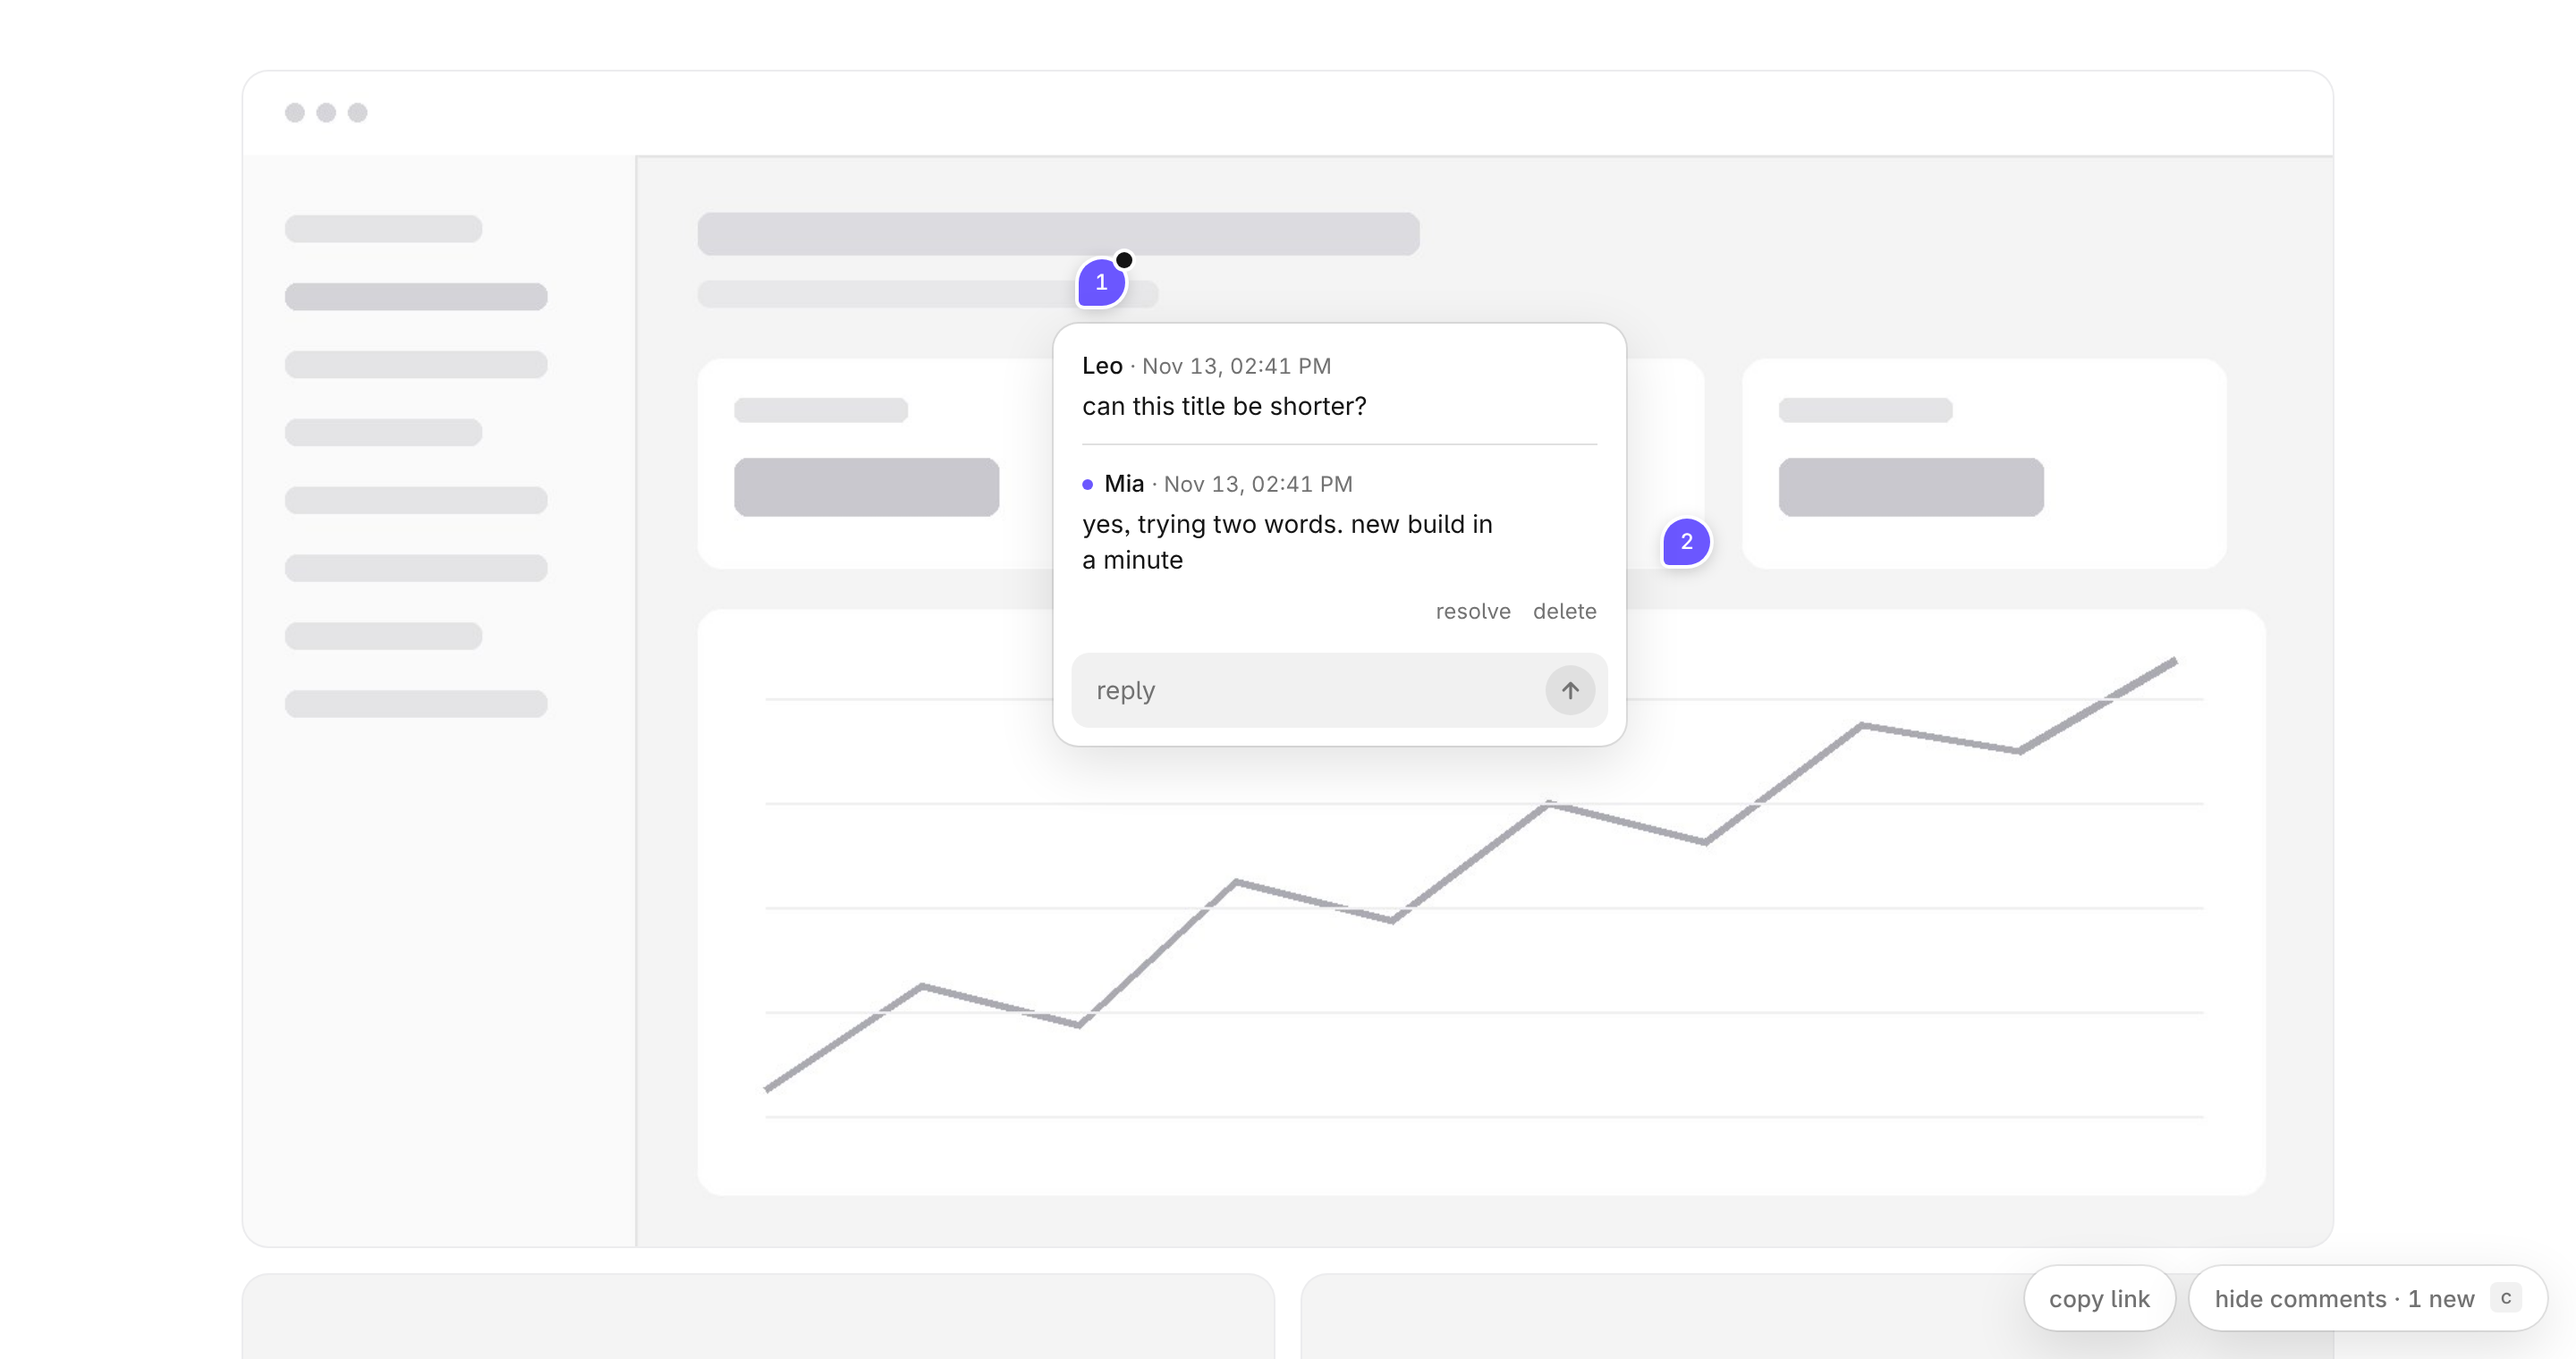
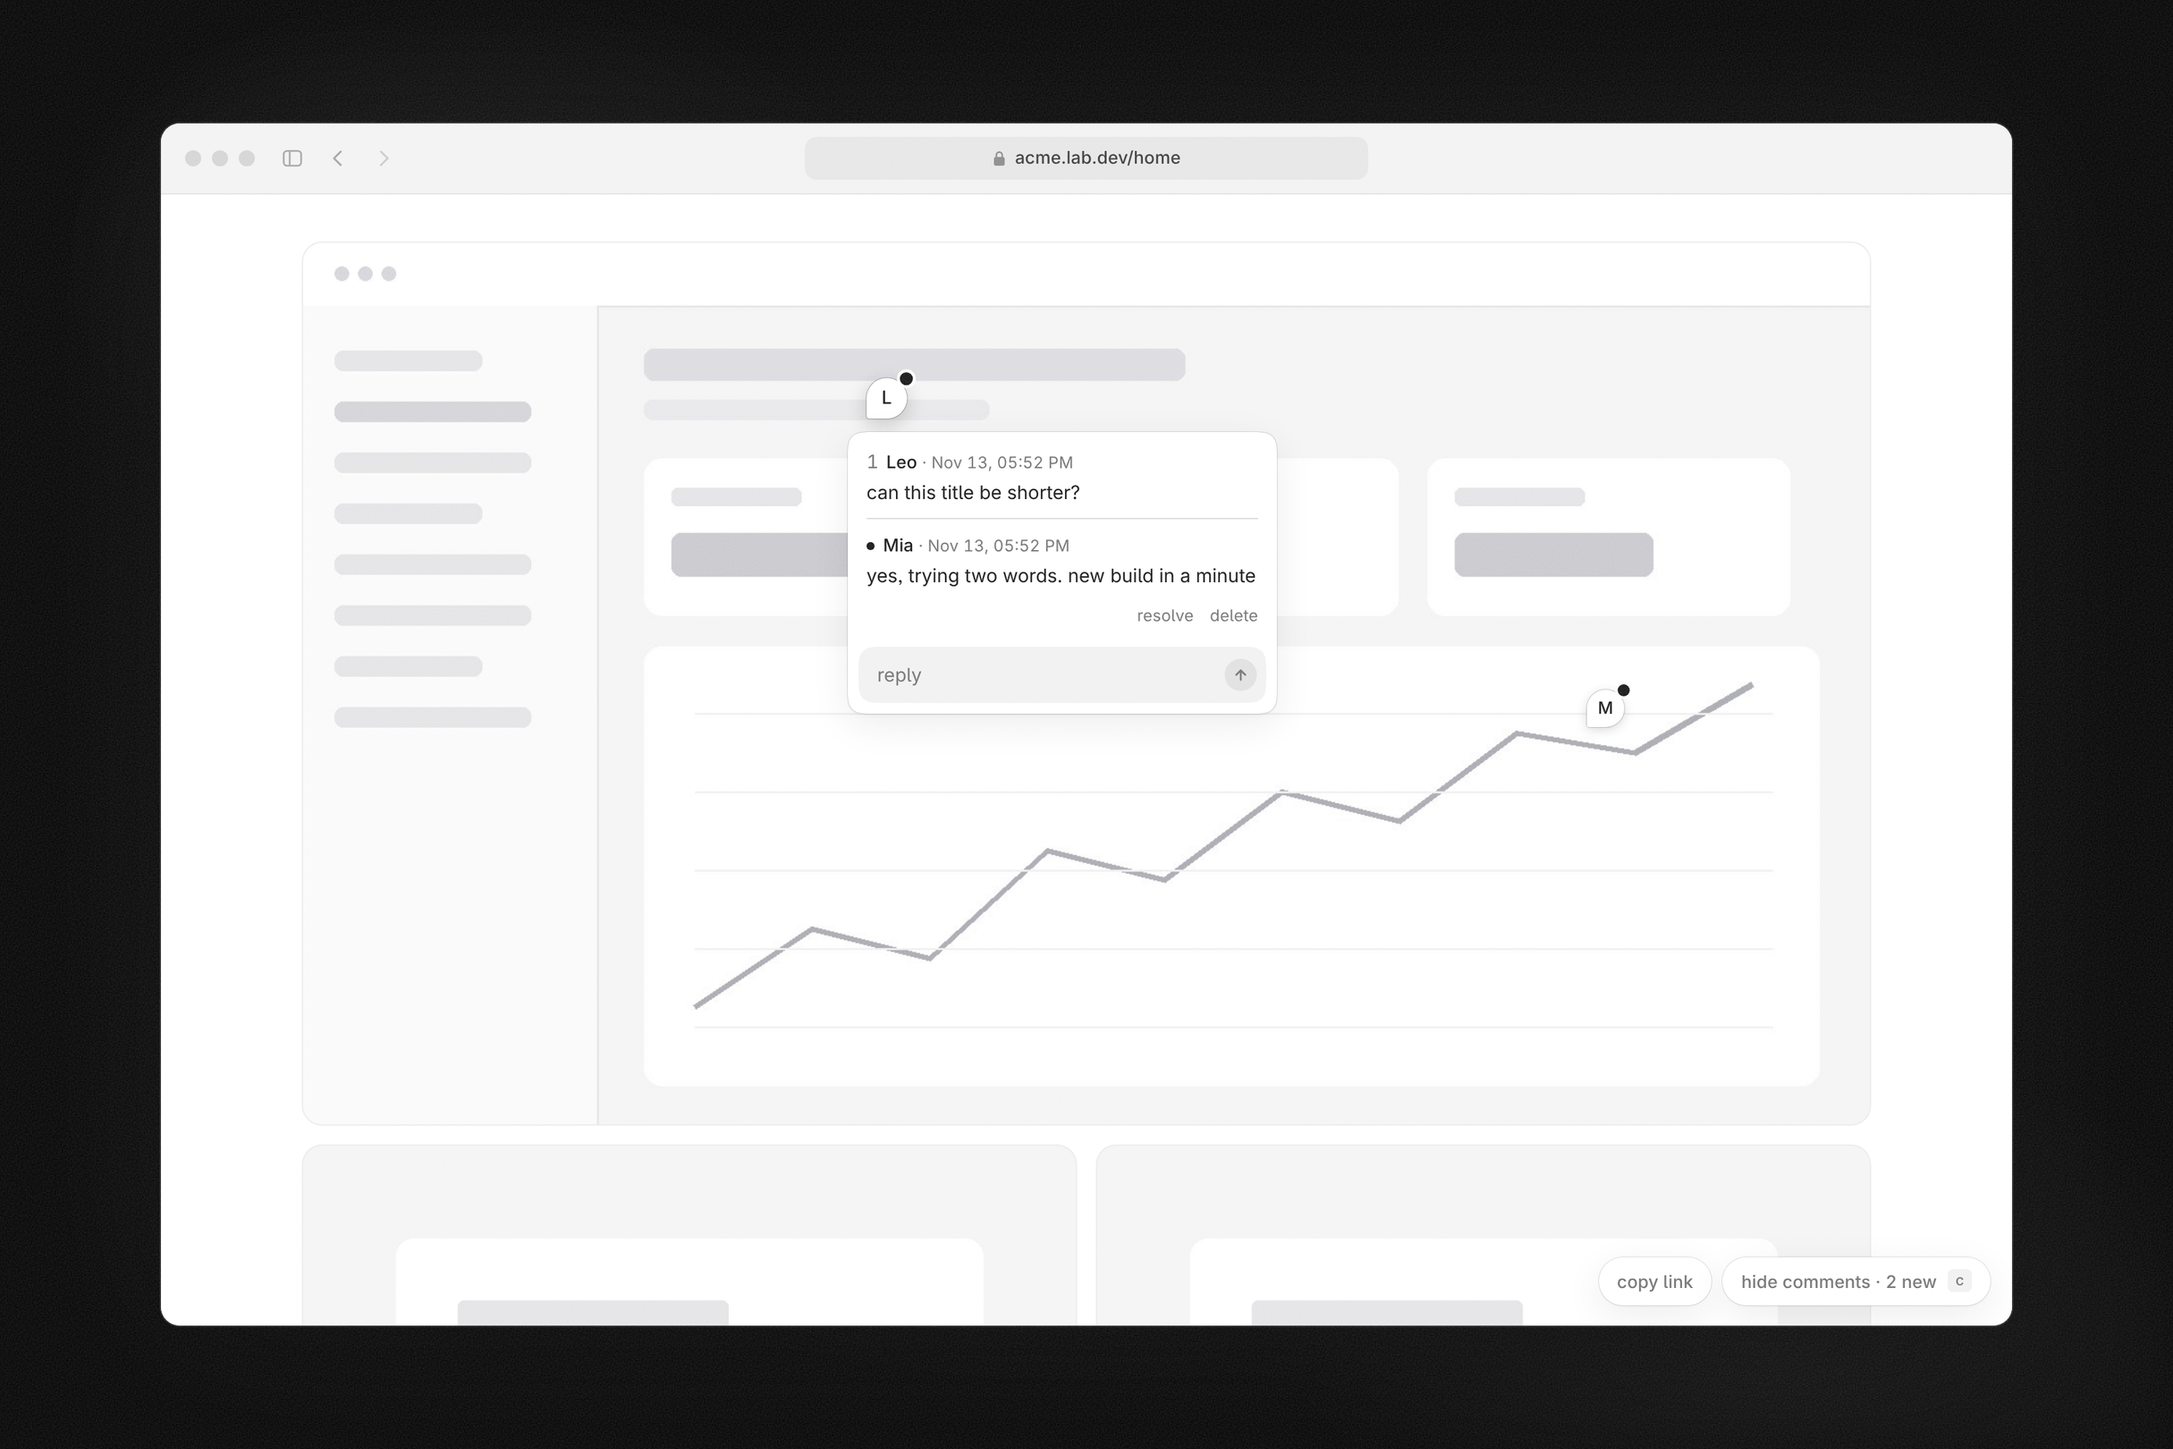
Paper look: initial pins, hairlines, continuous corners
Pins show the first letter of who left them; the card carries the number.
Monochrome by default (accent follows light/dark), 12px radius drawn as a
squircle where corner-shape is supported, 0.5px dividers, smaller send
button, lighter area highlight, and one faint halo when a comment posts.
README picture in a Safari-style frame; diagram redrawn as a technical flow.

Claude-Session: https://claude.ai/code/session_01NoJtmieRfqYAKPy5GtAjzg

diff --git a/public/_lab/comments.js b/public/_lab/comments.js
@@ -60,15 +60,17 @@
          [data-lab-comments] element (or on :root). Everything else is mixed from those. */
       :host { all: initial;
         --_bg: var(--lab-bg, #fff); --_fg: var(--lab-fg, #141414);
-        --_accent: var(--lab-accent, #6b57ff); --_accent-fg: var(--lab-accent-fg, #fff);
-        --_radius: var(--lab-radius, 14px);
+        --_accent: var(--lab-accent, #141414); --_accent-fg: var(--lab-accent-fg, #fff);
+        --_radius: var(--lab-radius, 12px);
         --_muted: color-mix(in srgb, var(--_fg) 60%, var(--_bg));
         --_line: color-mix(in srgb, var(--_fg) 13%, var(--_bg));
         --_soft: color-mix(in srgb, var(--_fg) 6%, var(--_bg));
-        --_shadow: 0 0 0 1px color-mix(in srgb, var(--_fg) 10%, transparent), 0 10px 32px rgba(0,0,0,.12);
+        --_hair: .5px solid color-mix(in srgb, var(--_fg) 16%, transparent);
+        --_shadow: 0 0 0 .5px color-mix(in srgb, var(--_fg) 14%, transparent), 0 1px 2px rgba(0,0,0,.04), 0 8px 28px rgba(0,0,0,.08);
         --_ease: cubic-bezier(.2, .8, .2, 1); }
       @media (prefers-color-scheme: dark) {
         :host { --_bg: var(--lab-bg, #1c1c1e); --_fg: var(--lab-fg, #f4f4f5);
+                --_accent: var(--lab-accent, #f4f4f5); --_accent-fg: var(--lab-accent-fg, #141414);
                 --_shadow: 0 0 0 1px color-mix(in srgb, var(--_fg) 16%, transparent), 0 10px 32px rgba(0,0,0,.5); }
       }
       * { box-sizing: border-box; font-family: var(--lab-font, 'lab-inter', system-ui, -apple-system, 'Segoe UI', Roboto, 'Helvetica Neue', Arial, sans-serif);
@@ -79,33 +81,37 @@
       ::selection { background: color-mix(in srgb, var(--_accent) 38%, transparent); color: var(--_fg); }
       button:focus-visible { outline: 2px solid var(--_accent); outline-offset: 2px; }
       .layer { position: absolute; top: 0; left: 0; width: 0; height: 0; }
-      .pin { position: absolute; width: 26px; height: 26px; margin: -26px 0 0 0; border-radius: 50% 50% 50% 3px;
-             background: var(--_accent); border: 0; box-shadow: 0 0 0 2px var(--_bg), 0 2px 10px rgba(0,0,0,.25);
-             display: grid; place-items: center; cursor: pointer; padding: 0; color: var(--_accent-fg); font-size: 12px; font-weight: 500;
+      .pin { position: absolute; width: 28px; height: 28px; margin: -28px 0 0 0; border-radius: 14px 14px 14px 2px;
+             background: var(--_bg); border: 0; box-shadow: 0 0 0 .5px color-mix(in srgb, var(--_fg) 22%, transparent), 0 2px 8px rgba(0,0,0,.16);
+             display: grid; place-items: center; cursor: pointer; padding: 0; color: var(--_fg); font-size: 12.5px; font-weight: 500;
              font-variant-numeric: tabular-nums; letter-spacing: .01em; transform-origin: 0 100%;
              transition: transform .16s var(--_ease), box-shadow .16s var(--_ease), opacity .16s; }
-      button.pin:hover { transform: scale(1.08); box-shadow: 0 0 0 2px var(--_bg), 0 4px 14px rgba(0,0,0,.28); }
+      button.pin:hover { transform: scale(1.08); box-shadow: 0 0 0 .5px color-mix(in srgb, var(--_fg) 30%, transparent), 0 4px 14px rgba(0,0,0,.2); }
       button.pin:active { transform: scale(.96); }
       .pin.in { animation: lab-pin .26s var(--_ease); }
-      .pin.resolved { background: var(--_muted); color: var(--_bg); }
+      /* A new comment lands with one faint halo from its pin. */
+      button.pin.in::before { content: ''; position: absolute; inset: 0; border-radius: inherit; pointer-events: none;
+                        animation: lab-halo .9s cubic-bezier(.2, .7, .3, 1) forwards; }
+      .pin.resolved { color: var(--_muted); }
       .pin.moved { opacity: .5; }
-      .zone { position: absolute; border: 1.5px solid var(--_accent); background: color-mix(in srgb, var(--_accent) 12%, transparent);
+      .zone { position: absolute; border: 1px solid color-mix(in srgb, var(--_accent) 45%, transparent); background: color-mix(in srgb, var(--_accent) 5%, transparent);
               border-radius: var(--_radius); pointer-events: none; }
       .zone.live { left: 0; top: 0; will-change: transform, width, height; animation: lab-fade .12s ease-out; }
-      .zone.saved { background: color-mix(in srgb, var(--_accent) 7%, transparent); }
+      .zone.saved { background: color-mix(in srgb, var(--_accent) 3%, transparent); }
       .zone.saved.in { animation: lab-settle .36s var(--_ease); }
       .pin.new::after { content: ''; position: absolute; top: -4px; right: -4px; width: 9px; height: 9px; border-radius: 50%;
                         background: var(--_fg); box-shadow: 0 0 0 2px var(--_bg); }
       .dot { display: inline-block; width: 6px; height: 6px; border-radius: 50%; background: var(--_accent); margin: 0 6px 1px 0; }
       .card { position: absolute; width: 320px; max-width: calc(100vw - 24px); background: var(--_bg); border-radius: var(--_radius);
-              box-shadow: var(--_shadow); padding: 14px 16px 16px; transform-origin: 14px 0; z-index: 1; }
+              box-shadow: var(--_shadow); padding: 12px 14px 14px; transform-origin: 14px 0; z-index: 1; }
       .card.in, .float.in { animation: lab-in .18s var(--_ease); }
       .card.out, .float.out { animation: lab-out .14s ease-in forwards; pointer-events: none; }
-      .item + .item { border-top: 1px solid var(--_line); margin-top: 12px; padding-top: 12px; }
+      .item + .item { border-top: var(--_hair); margin-top: 10px; padding-top: 10px; }
       .meta { display: flex; align-items: baseline; gap: .3em; font-size: 12px; color: var(--_muted); margin-bottom: 3px;
               white-space: nowrap; letter-spacing: .01em; font-variant-numeric: tabular-nums; }
       .meta b { font-weight: 500; font-size: 13px; letter-spacing: .005em; min-width: 0; overflow: hidden; text-overflow: ellipsis; }
       .meta .dot { flex: none; align-self: center; margin: 0 .2em 0 0; }
+      .meta .num { color: var(--_muted); font-variant-numeric: tabular-nums; margin-right: .15em; }
       .text { white-space: pre-wrap; overflow-wrap: anywhere; text-wrap: pretty; }
       .row { display: flex; gap: 12px; justify-content: flex-end; align-items: center; margin-top: 10px; }
       button.btn { border: 0; padding: 2px 0; cursor: pointer; background: none; color: var(--_muted); font-size: 12px;
@@ -116,15 +122,15 @@
       .box { display: grid; grid-template-columns: 1fr auto; grid-template-areas: "text send"; align-items: center; column-gap: 8px;
              background: var(--_bg); border-radius: var(--_radius); padding: 7px 7px 7px 14px; transition: box-shadow .15s; }
       .float .box { box-shadow: var(--_shadow); }
-      .float .box:focus-within { box-shadow: var(--_shadow), 0 0 0 1px color-mix(in srgb, var(--_accent) 55%, transparent); }
+      .float .box:focus-within { box-shadow: var(--_shadow), 0 0 0 .5px color-mix(in srgb, var(--_fg) 28%, transparent); }
       .card .box { background: var(--_soft); border-radius: max(calc(var(--_radius) - 4px), 0px); margin: 0 -6px -6px; }
-      .card .box.open { box-shadow: inset 0 0 0 1px var(--_line); }
-      .card .box:focus-within { box-shadow: inset 0 0 0 1px color-mix(in srgb, var(--_accent) 55%, transparent); }
+      .card .box.open { box-shadow: inset 0 0 0 .5px color-mix(in srgb, var(--_fg) 22%, transparent); }
+      .card .box:focus-within { box-shadow: inset 0 0 0 .5px color-mix(in srgb, var(--_fg) 28%, transparent); }
       .box.open { grid-template-areas: "text text" "line line" "who send"; row-gap: 8px; padding: 10px 8px 8px 14px; }
       .box textarea { grid-area: text; width: 100%; border: 0; background: none; padding: 4px 0; margin: 0; resize: none;
                       min-height: 0; max-height: 200px; overflow-y: auto; outline: none; display: block; }
       .box textarea::placeholder, .who input::placeholder { color: var(--_muted); opacity: 1; }
-      .line { grid-area: line; height: 1px; background: var(--_line); margin: 0 -8px 0 -14px; display: none; }
+      .line { grid-area: line; height: 0; border-top: var(--_hair); margin: 0 -8px 0 -14px; display: none; }
       .who { grid-area: who; display: none; align-items: baseline; gap: 4px; min-width: 0; font-size: 13px; color: var(--_muted); letter-spacing: .005em; }
       .who * { font-size: 13px; }
       .who span { color: var(--_muted); }
@@ -132,7 +138,7 @@
       .who input:focus { color: var(--_fg); }
       .box.open .line { display: block; animation: lab-fade .16s ease-out; }
       .box.open .who { display: flex; animation: lab-fade .16s ease-out; }
-      .send { grid-area: send; width: 28px; height: 28px; border-radius: 50%; border: 0; padding: 0; cursor: pointer;
+      .send { grid-area: send; width: 24px; height: 24px; border-radius: 50%; border: 0; padding: 0; cursor: pointer;
               background: var(--_line); color: var(--_muted); display: grid; place-items: center; transition: background .15s, color .15s, transform .15s var(--_ease); }
       .send.ready:hover { transform: scale(1.06); }
       .send.ready:active { transform: scale(.94); }
@@ -159,7 +165,11 @@
       @keyframes lab-fade { from { opacity: 0; } }
       @keyframes lab-in { from { opacity: 0; transform: translateY(4px) scale(.98); } }
       @keyframes lab-out { to { opacity: 0; transform: translateY(2px) scale(.985); } }
-      @keyframes lab-pin { from { transform: scale(1.22); } }
+      /* Continuous (Apple-style) corners where the browser draws them; plain rounding elsewhere. */
+      @supports (corner-shape: squircle) { .card, .float .box, .card .box { corner-shape: squircle; border-radius: calc(var(--_radius) * 1.8); } }
+      @keyframes lab-pin { from { transform: scale(1.1); } }
+      @keyframes lab-halo { from { box-shadow: 0 0 0 0 color-mix(in srgb, var(--_fg) 12%, transparent); }
+                            to { box-shadow: 0 0 0 16px color-mix(in srgb, var(--_fg) 0%, transparent); } }
       @keyframes lab-settle { from { background: color-mix(in srgb, var(--_accent) 16%, transparent);
                                      box-shadow: 0 0 0 5px color-mix(in srgb, var(--_accent) 18%, transparent); }
                               to { box-shadow: 0 0 0 0 color-mix(in srgb, var(--_accent) 0%, transparent); } }
@@ -598,6 +608,8 @@
     store.set(seenKey, [...seen].join(','));
   };
   const repliesOf = (id) => comments.filter((c) => c.parent === id);
+  // Pins show who left them: the first letter of the name.
+  const initial = (name) => [...String(name || '').trim()][0]?.toUpperCase() || '';
   const when = (iso) =>
     new Date(iso).toLocaleString(undefined, { day: 'numeric', month: 'short', hour: '2-digit', minute: '2-digit' });
 
@@ -610,7 +622,7 @@
   }
 
   const ARROW =
-    '<svg viewBox="0 0 16 16" width="14" height="14" aria-hidden="true"><path d="M8 13V3.5M3.5 8 8 3.5 12.5 8" fill="none" stroke="currentColor" stroke-width="1.8" stroke-linecap="round" stroke-linejoin="round"/></svg>';
+    '<svg viewBox="0 0 16 16" width="12" height="12" aria-hidden="true"><path d="M8 13V3.5M3.5 8 8 3.5 12.5 8" fill="none" stroke="currentColor" stroke-width="1.8" stroke-linecap="round" stroke-linejoin="round"/></svg>';
 
   // One field that grows: a pill while empty, a box with a divider and the name row once you type.
   function composer({ placeholder, onSubmit, autofocus }) {
@@ -734,9 +746,9 @@
         {
           class: `pin${c.resolved ? ' resolved' : ''}${news.length ? ' new' : ''}${moved ? ' moved' : ''}${posted === c.id ? ' in' : ''}`,
           type: 'button',
-          title: moved ? `${c.name} · the spot it was pinned to has changed` : c.name,
+          title: `${c.resolved ? '' : `${numberOf(c)} · `}${c.name}${moved ? ' · the spot it was pinned to has changed' : ''}`,
         },
-        c.resolved ? '✓' : String(numberOf(c)),
+        c.resolved ? '✓' : initial(c.name),
       );
       pin.style.left = `${left}px`;
       pin.style.top = `${top}px`;
@@ -762,7 +774,7 @@
       const { left, top, zone } = position(anchor);
       drawZone(zone, 'draft');
       quoted = anchor;
-      const pin = el('div', { class: `pin draft${anim}` });
+      const pin = el('div', { class: `pin draft${anim}` }, initial(store.get('lab-name')));
       pin.style.left = `${left}px`;
       pin.style.top = `${top}px`;
       layer.append(pin);
@@ -795,6 +807,7 @@
       const box = el('div', { class: 'item' });
       const meta = el('div', { class: 'meta' });
       if (fresh.has(item.id)) meta.append(el('span', { class: 'dot', title: 'new' }));
+      if (item === c && !c.resolved) meta.append(el('span', { class: 'num' }, String(numberOf(c))));
       meta.append(el('b', {}, item.name), document.createTextNode(` · ${when(item.createdAt)}`));
       box.append(meta, el('div', { class: 'text' }, item.text));
       card.append(box);

diff --git a/README.md b/README.md
@@ -6,7 +6,7 @@ Pin comments on live pages. Anyone with the link clicks anywhere and types a nam
 
 Works on text, code, photos and video. Each comment records what's under it: the image file and the spot in its pixels, the quoted words, the video time, the section. So an agent finds it in the source without a screenshot.
 
-![What a person pins, what the agent reads from the link, and where it goes](docs/how-agents-see-comments.png)
+![A person pins, the agent GETs one link as plain text, then opens the exact file, line, pixel or second](docs/how-agents-see-comments.png)
 
 One domain, many repos. The lab domain is only a proxy: two rewrite lines send `/<name>/*` to each member's own repo and Vercel project, with their own pages, notes and knowledge base for their agent. Nobody shares a codebase, nobody waits on anybody.
 
